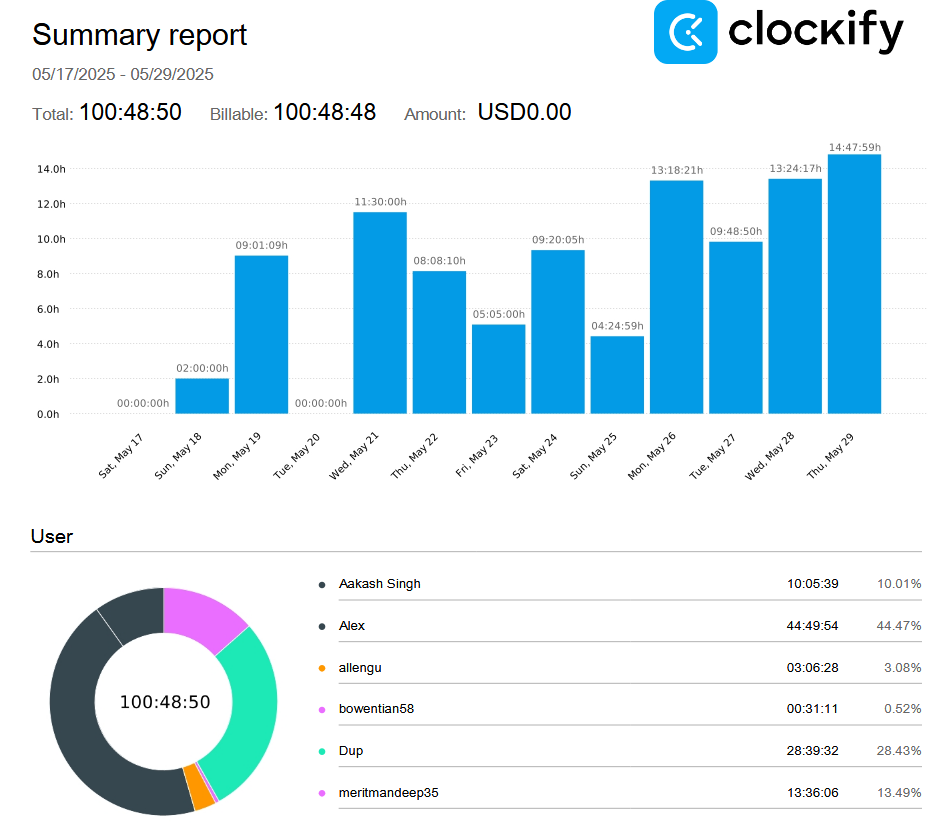
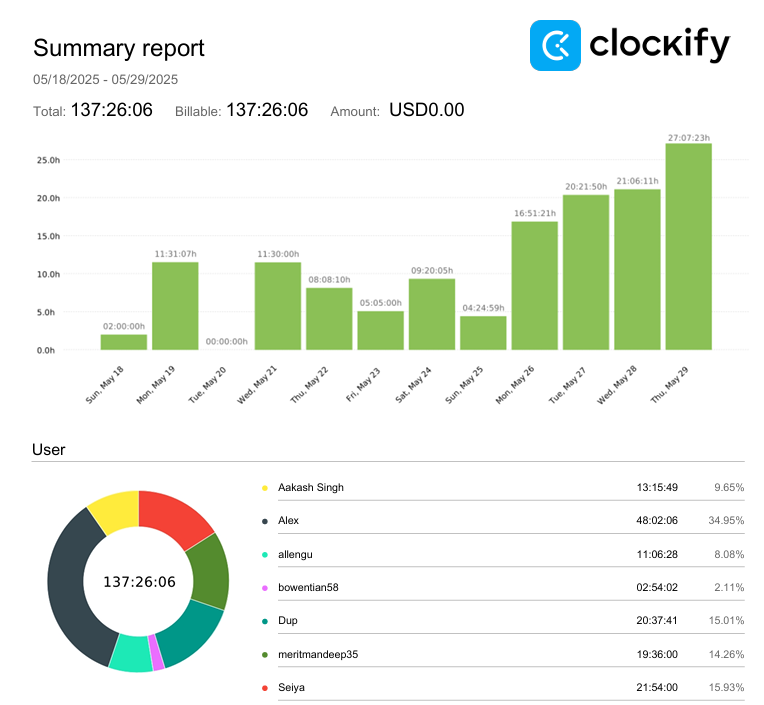
fixed last weeks hours

diff --git a/docs/weekly_logs/team/week1.md b/docs/weekly_logs/team/week1.md
@@ -39,16 +39,16 @@
 - ![docs/weekly logs/Burn Up Charts/[Burn Up Chart Image]](week1_images/burnup.png)
 
 ## Times for Team/Individual:
- Screenshot of Chart below taken at 2:11 PM on May 29:
+
 | Team Member | Logged Hours |
 | ----------- | ------------ |
-| Aakash      | 10:05    |
-| Alex      | 44:49      |
-| Allen      | 3:06      |
-| Dup      | 28:39      |
-| Eddy      | 0:31      |
-|   Mandeep      | 13:36      |
-|   Seiya      |   0    |
+| Aakash      | 13:15    |
+| Alex      | 48:02      |
+| Allen      | 11:06      |
+| Dup      | 20:37      |
+| Eddy      | 02:54      |
+|   Mandeep      | 19:36      |
+|   Seiya      |   21:54    |
 
 - ![docs/weekly logs/Clockify/[Time Tracking Image]](week1_images/clockify.png)
 
